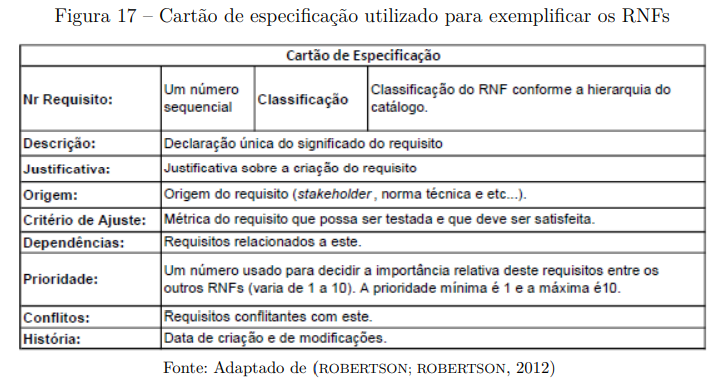
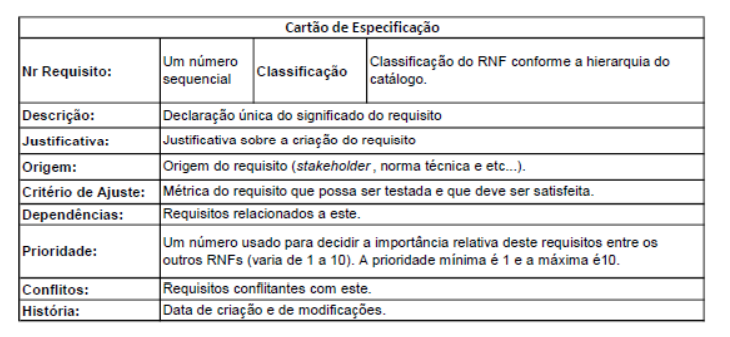
pequenas correções em NFR/Historia de usuario e adição de validações em richpicture e prototipação

diff --git a/docs/Modelagem/Ágil/História de usuário.md b/docs/Modelagem/Ágil/História de usuário.md
@@ -20,15 +20,15 @@ Fonte: Repositório Bilheteria Digital, disciplina de requisitos de software <a 
 
 ## Tabela de contribuições
 
-| Aluno | Descrição | Links|
-|-------|-----------|------|
-| [Heyttor Augusto](https://github.com/H3ytt0r62) | Criação das histórias de usuário HU01, HU02, HU03, HU04, HU05 e HU06 | [HU01](#HU01), [HU02](#HU02), [HU03](#HU03), [HU04](#HU04), [HU05](#HU05), [HU06](#HU06) |
-| [João Pedro](https://github.com/Jadequilin) | Criação das histórias de usuário HU07, HU08, HU09, HU10, HU11 e HU12 | [HU07](#HU07), [HU08](#HU08), [HU09](#HU09), [HU10](#HU10), [HU11](#HU11), [HU12](#HU12) |
-| [Nayra Nery](https://github.com/NayraNery127) | Criação das histórias de usuário HU13, HU14, HU15, HU16, HU17 e HU18 | [HU13](#HU13), [HU14](#HU14), [HU15](#HU15), [HU16](#HU16), [HU17](#HU17), [HU18](#HU18) |
-| [Miqueias Ezequiel](https://github.com/Kael-web7) | Criação das histórias de usuário HU19, HU20, HU21, HU22, HU23 e HU24 | [HU19](#HU19), [HU20](#HU20), [HU21](#HU21), [HU22](#HU22), [HU23](#HU23), [HU24](#HU24) |
-| [Rivadalvio Joaquim](https://github.com/RivaFilho) | Criação das histórias de usuário HU25,  HU26, HU27, HU28, HU29 e HU30 | [HU25](#HU25), [HU26](#HU26), [HU27](#HU27), [HU28](#HU28), [HU29](#HU29), [HU30](#HU30) |
-| [Luan Vinícius](https://github.com/luannvi) | Criação das histórias de usuário HU31, HU32, HU33, HU34, HU35, HU36 | [HU31](#HU31), [HU32](#HU32), [HU33](#HU33), [HU34](#HU34), [HU35](#HU35), [HU36](#HU36) |
-| [Samuel Felipe](https://github.com/TerminaKng05) | Criação das histórias de usuário HU37, HU38, HU39, HU40, HU41 e HU42 | [HU37](#HU37), [HU38](#HU38), [HU39](#HU39), [HU40](#HU40), [HU41](#HU41) e [HU42](#HU42) |
+| Aluno | Descrição |
+|-------|-----------|
+| [Heyttor Augusto](https://github.com/H3ytt0r62) | Criação das histórias de usuário [HU01](#HU01), [HU02](#HU02), [HU03](#HU03), [HU04](#HU04), [HU05](#HU05), [HU06](#HU06) |
+| [João Pedro](https://github.com/Jadequilin) | Criação das histórias de usuário [HU07](#HU07), [HU08](#HU08), [HU09](#HU09), [HU10](#HU10), [HU11](#HU11), [HU12](#HU12) |
+| [Nayra Nery](https://github.com/NayraNery127) | Criação das histórias de usuário [HU13](#HU13), [HU14](#HU14), [HU15](#HU15), [HU16](#HU16), [HU17](#HU17), [HU18](#HU18) |
+| [Miqueias Ezequiel](https://github.com/Kael-web7) | Criação das histórias de usuário [HU19](#HU19), [HU20](#HU20), [HU21](#HU21), [HU22](#HU22), [HU23](#HU23), [HU24](#HU24) |
+| [Rivadalvio Joaquim](https://github.com/RivaFilho) | Criação das histórias de usuário [HU25](#HU25), [HU26](#HU26), [HU27](#HU27), [HU28](#HU28), [HU29](#HU29), [HU30](#HU30) |
+| [Luan Vinícius](https://github.com/luannvi) | Criação das histórias de usuário [HU31](#HU31), [HU32](#HU32), [HU33](#HU33), [HU34](#HU34), [HU35](#HU35), [HU36](#HU36) |
+| [Samuel Felipe](https://github.com/TerminaKng05) | Criação das histórias de usuário [HU37](#HU37), [HU38](#HU38), [HU39](#HU39), [HU40](#HU40), [HU41](#HU41) e [HU42](#HU42) | 
 
 ## Validação com o usuário
 
@@ -681,3 +681,4 @@ O grupo 7 agradece o apoio das ferramentas de inteligencia artificial generativa
 | ``2.0`` | 21/10/2025 | [Luan Vinícius](https://github.com/luannvi) | Adição da validação com o usuário (HU31 - HU36) | [Miqueias Ezequiel](https://github.com/Kael-web7) |
 | ``2.1`` | 21/10/2025 | [Miqueias Ezequiel](https://github.com/Kael-web7) | adição links de validação historia de usuario (19-24)| [Luan Vinícius](https://github.com/luannvi) |
 | ``2.2``    | 21/10/2025 | [João Pedro](https://github.com/Jadequilin)   | Padronização do local dos vídeos |[Rivadalvio Joaquim](https://github.com/RivaFilho) |
+| ``2.3`` | 23/11/2025 | [Luan Vinícius](https://github.com/luannvi) | Correção dos links tabela de contribuição | [Miqueias Ezequiel](https://github.com/Kael-web7) |

diff --git a/docs/Validação/Prototipação.md b/docs/Validação/Prototipação.md
@@ -193,6 +193,11 @@ Foi feita a validação com a usuária Joelma de Almeida, que aprovou o requisit
 
 <iframe width="560" height="315" src="https://www.youtube.com/embed/3uuHRnVb84c?si=VCnIxh0AbUZF1Cpd" title="YouTube video player" frameborder="0" allow="accelerometer; autoplay; clipboard-write; encrypted-media; gyroscope; picture-in-picture; web-share" referrerpolicy="strict-origin-when-cross-origin" allowfullscreen></iframe>
 
+### RF28 e RNF11 
+
+Foi feita a validação com o usuário Matheus Queiroz, que aprovou o requisito prototipado.
+
+<iframe width="560" height="315" src="https://www.youtube.com/embed/QNivC4XFEGI?si=oXyoO_9DOPCWmlvR" title="YouTube video player" frameborder="0" allow="accelerometer; autoplay; clipboard-write; encrypted-media; gyroscope; picture-in-picture; web-share" referrerpolicy="strict-origin-when-cross-origin" allowfullscreen></iframe>
 
 ## Agradecimentos 
 
@@ -218,6 +223,7 @@ O grupo 7 agradece o apoio das ferramentas de inteligência artificial generativ
 | ``2.8`` | 19/11/2025 | Adição do RNF26 | [João Pedro](https://github.com/Jadequilin) | - |
 | `` 2.9 `` | 20/11/2025 | Adição da seção de validação com o usuário | [João Pedro](https://github.com/Jadequilin) | - |
 | ``3.0`` | 20/11/2025 | Atualização da numeração dos rfs | [Samuel Felipe](https://github.com/TerminaKng05) | [Heyttor Augusto](https://github.com/H3ytt0r62) |
-| ``3.1``     | 21/11/2025 | Adição das tabelas restantes do protótipo, adição dos GIFs restantes, correções ortográficas no texto, atualização da tabela de contribuição, formato em ordem crescente dos requisitos  | [Luan Vinícius](https://github.com/luannvi) | [Miquéias Ezequiel]
+| ``3.1``     | 21/11/2025 | Adição das tabelas restantes do protótipo, adição dos GIFs restantes, correções ortográficas no texto, atualização da tabela de contribuição, formato em ordem crescente dos requisitos  | [Luan Vinícius](https://github.com/luannvi) | [Miqueias Ezequiel](https://github.com/Kael-web7) |
 | ``3.2`` | 22/11/2025 | Adição do RF23 e RF40 | [Rivadalvio Joaquim](https://github.com/RivaFilho) | - |
 | ``3.3 `` | 23/11/2025 | Adição da validação com usuário (RF 37 e 39) | [Samuel Felipe](https://github.com/TerminaKng05) | [Heyttor Augusto](https://github.com/H3ytt0r62) |
+| ``3.4``     | 23/11/2025 | Adição da validação com usuário (RF28 E RNF11) | [Luan Vinícius](https://github.com/luannvi) | [Miqueias Ezequiel](https://github.com/Kael-web7) |

diff --git a/docs/Modelagem/Ágil/NFR.md b/docs/Modelagem/Ágil/NFR.md
@@ -116,9 +116,11 @@ Esses rótulos são ilustrados na Figura 5.
 
 O gerenciamento dos requisitos não-funcionais (RNFs) será padronizado pelo uso do cartão de especificação de Silva (2019, p. 45) <a id= "anchor_7" href="#REF7">[7]</a>, apresentado na Figura 6, visando garantir rigor e consistência. O modelo define que cada RNF seja decomposto em campos claros, como número sequencial, classificação hierárquica, descrição, justificativa, origem, critério de ajuste, dependências, prioridade, conflitos e histórico de alterações. Este método foi escolhido por facilitar diretamente as atividades de rastreabilidade e validação no decorrer do desenvolvimento.
 
+*<p style="text-align: center;">Figura 6: Modelo do cartão de especificação utilizado.</p>*
+
 ![Cartão](../../images/nfr-framework/cartao.png){.center}
 
-*<p style="text-align: center;">Figura 6: Modelo do cartão de especificação utilizado.</p>*
+*<p style="text-align: center;">Fonte: Silva (2019), adaptado de Robertson & Robertson (2012).</p>*
 
 <a id="CNFR01"></a>
 ## CNFR01 - O software deve ter telas simples com poucos textos
@@ -505,3 +507,4 @@ O grupo 7 agradece o apoio das ferramentas de inteligencia artificial generativa
 | ``2.1`` | 21/10/2025 | [Miqueias Ezequiel](https://github.com/Kael-web7) | adição link CNFR's 7-8  | [Luan Vinícius](https://github.com/luannvi) |
 | ``2.2``     | 20/11/2025 | [Miquéias Ezequiel](https://github.com/Kael-web7)    | Especificação aprimorada RNF09 | [Luan Vinícius](https://github.com/luannvi) |
 | ``2.3`` | 23/11/2025 | [Samuel Felipe](https://github.com/TerminaKng05) | Adição da validação com usuário (CNFR 14) | [Luan Vinícius](https://github.com/luannvi) |
+| ``2.3`` | 23/11/2025 | [Luan Vinícius](https://github.com/luannvi) | Correção cartão de especificação | |

diff --git a/docs/Pré-rastreabilidade/RichPicture.md b/docs/Pré-rastreabilidade/RichPicture.md
@@ -30,6 +30,12 @@ Os cinco elementos básicos que estão presentes nas RichPictures:
 
 - **Setas**: representando as interações dos usuários com as funções do software e também as respostas do software ao usuário, tendo também uma descrição breve junto a seta.
 
+## Validação com o usuário
+
+Foi feita a validação com o usuário Matheus Queiroz, que aprovou a RichPicture feita.
+
+<iframe width="560" height="315" src="https://www.youtube.com/embed/I4OcrkAW1WA?si=w9Bei0y-vHYdmeBK" title="YouTube video player" frameborder="0" allow="accelerometer; autoplay; clipboard-write; encrypted-media; gyroscope; picture-in-picture; web-share" referrerpolicy="strict-origin-when-cross-origin" allowfullscreen></iframe>
+
 ## Referências
 
 >Google Play Store - Loterias Caixa: Disponível em: <https://play.google.com/store/apps/details?id=br.gov.caixa.loterias.apostas&hl=pt&gl=BR&pli=1.> Acesso em: 18/09/2025. 
@@ -44,3 +50,4 @@ Os cinco elementos básicos que estão presentes nas RichPictures:
 | ``1.1``    | 08/09/2025 | [Luan Vinícius](https://github.com/luannvi)       | Modificações do richpicture| [Heyttor Augusto](https://github.com/H3ytt0r62)|
 | ``1.2``    | 09/09/2025 | [Heyttor Augusto](https://github.com/H3ytt0r62)     | Adição de conteúdo         | [Luan Vinícius](https://github.com/luannvi)   |
 | ``2.0``    | 18/09/2025 | [Luan Vinícius](https://github.com/luannvi)       | Adição da imagem da segunda versão do RichPicture | [Heyttor Augusto](https://github.com/H3ytt0r62) |
+| ``2.1``    | 23/11/2025 | [Luan Vinícius](https://github.com/luannvi)       | Adição da validação com usuário |  |
